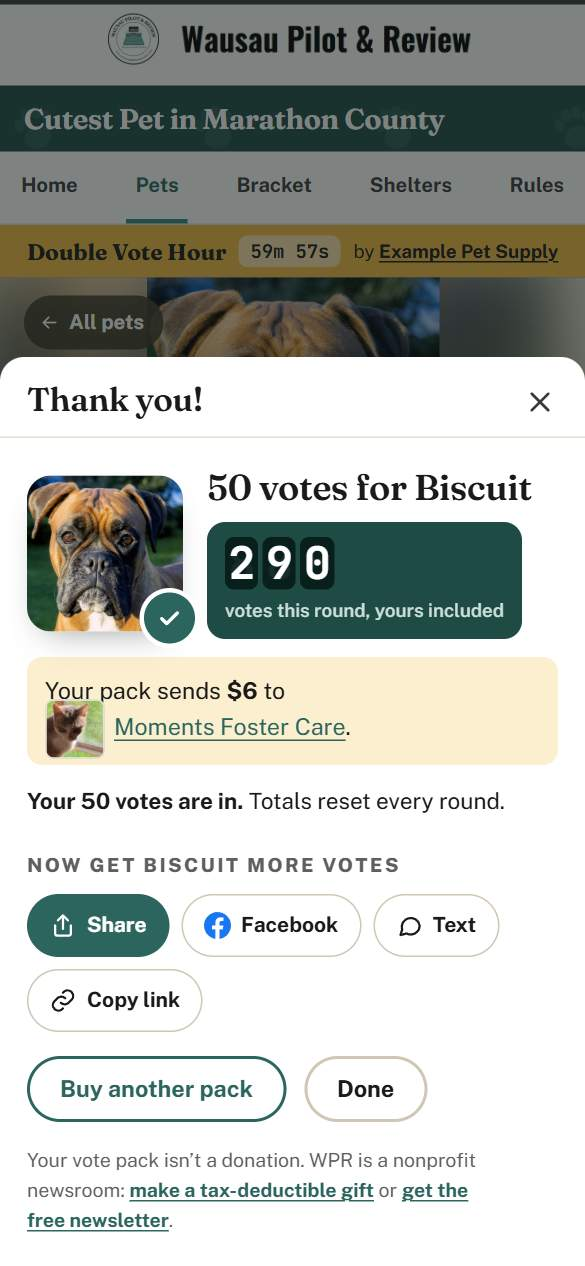
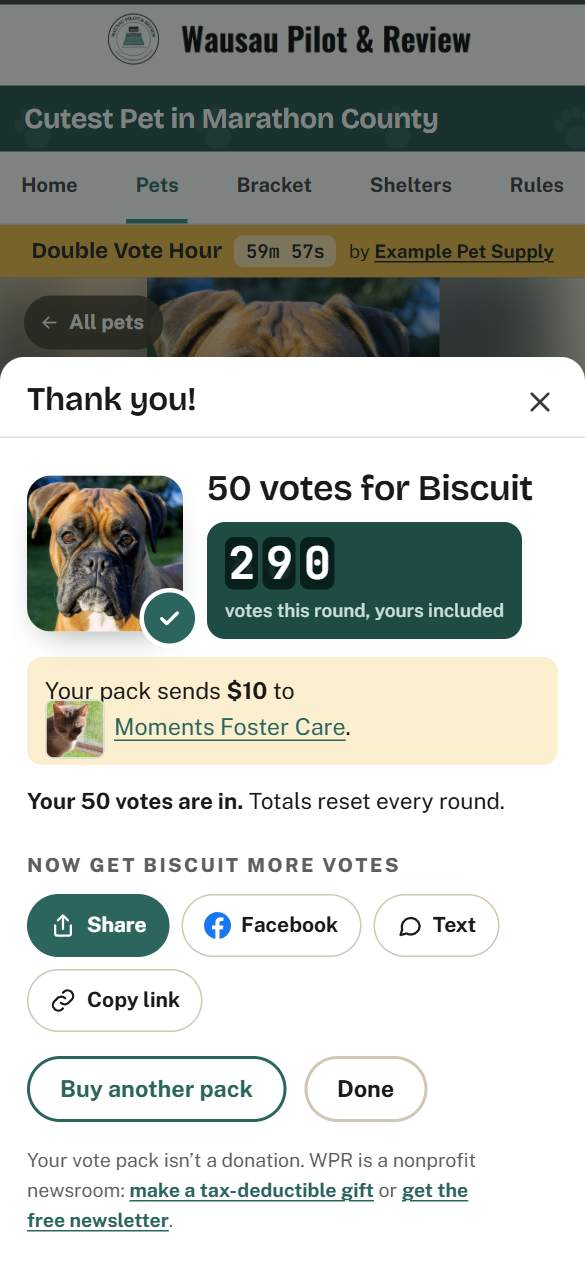
CI reads the newsroom and the half split
test-and-deploy has been red since the newsroom became a setting: the
preflight parser reads config.js as text and found no contact address
once RULES.contact became NEWSROOM.contact. It now reads newsrooms.js too
and resolves NEWSROOM.<key> references and ${NEWSROOM.<key>} templates
from the default newsroom's entry. The browser test's payout statement
expected the old 30% line; it reads 50% and $10 now. The newsroom page's
screenshots come from the Bricolage deck.

diff --git a/web/e2e/contest.spec.js b/web/e2e/contest.spec.js
@@ -153,12 +153,12 @@ test('checkout offers the database packs and never calls it a donation', async (
 
 test('staff read the payout statement and set up next year from the desk', async ({ page }) => {
   await signIn(page, '/#/admin/wrapup')
-  // The one $20 pack bought earlier, 30% to the shelters.
+  // The one $20 pack bought earlier, half to the shelters.
   const statement = page.locator('.print-area')
   await expect(statement).toContainText('Shelter payout statement')
   await expect(statement).toContainText('PRELIMINARY')
   await expect(statement.locator('tr', { hasText: 'Net vote pack sales' })).toContainText('$20.00')
-  await expect(statement.locator('tr', { hasText: 'Shelter share (30%)' })).toContainText('$6.00')
+  await expect(statement.locator('tr', { hasText: 'Shelter share (50%)' })).toContainText('$10.00')
 
   // The archive: three files, standings by pet name, and no owner details.
   const files = []
